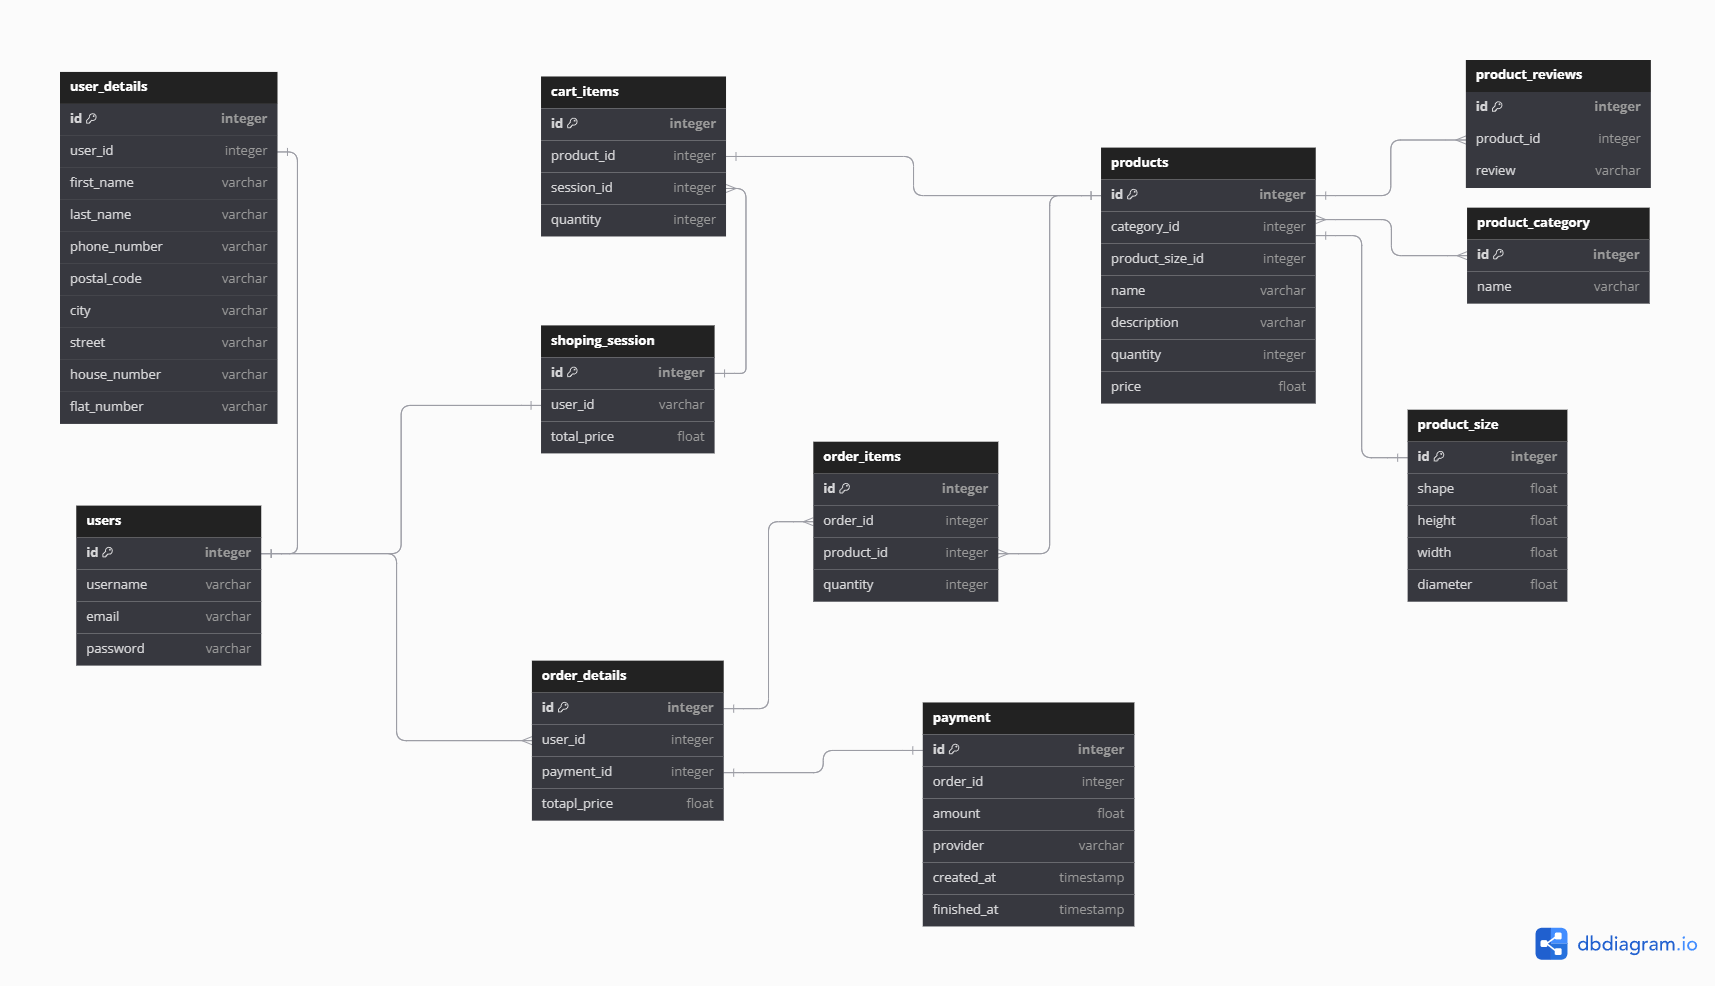
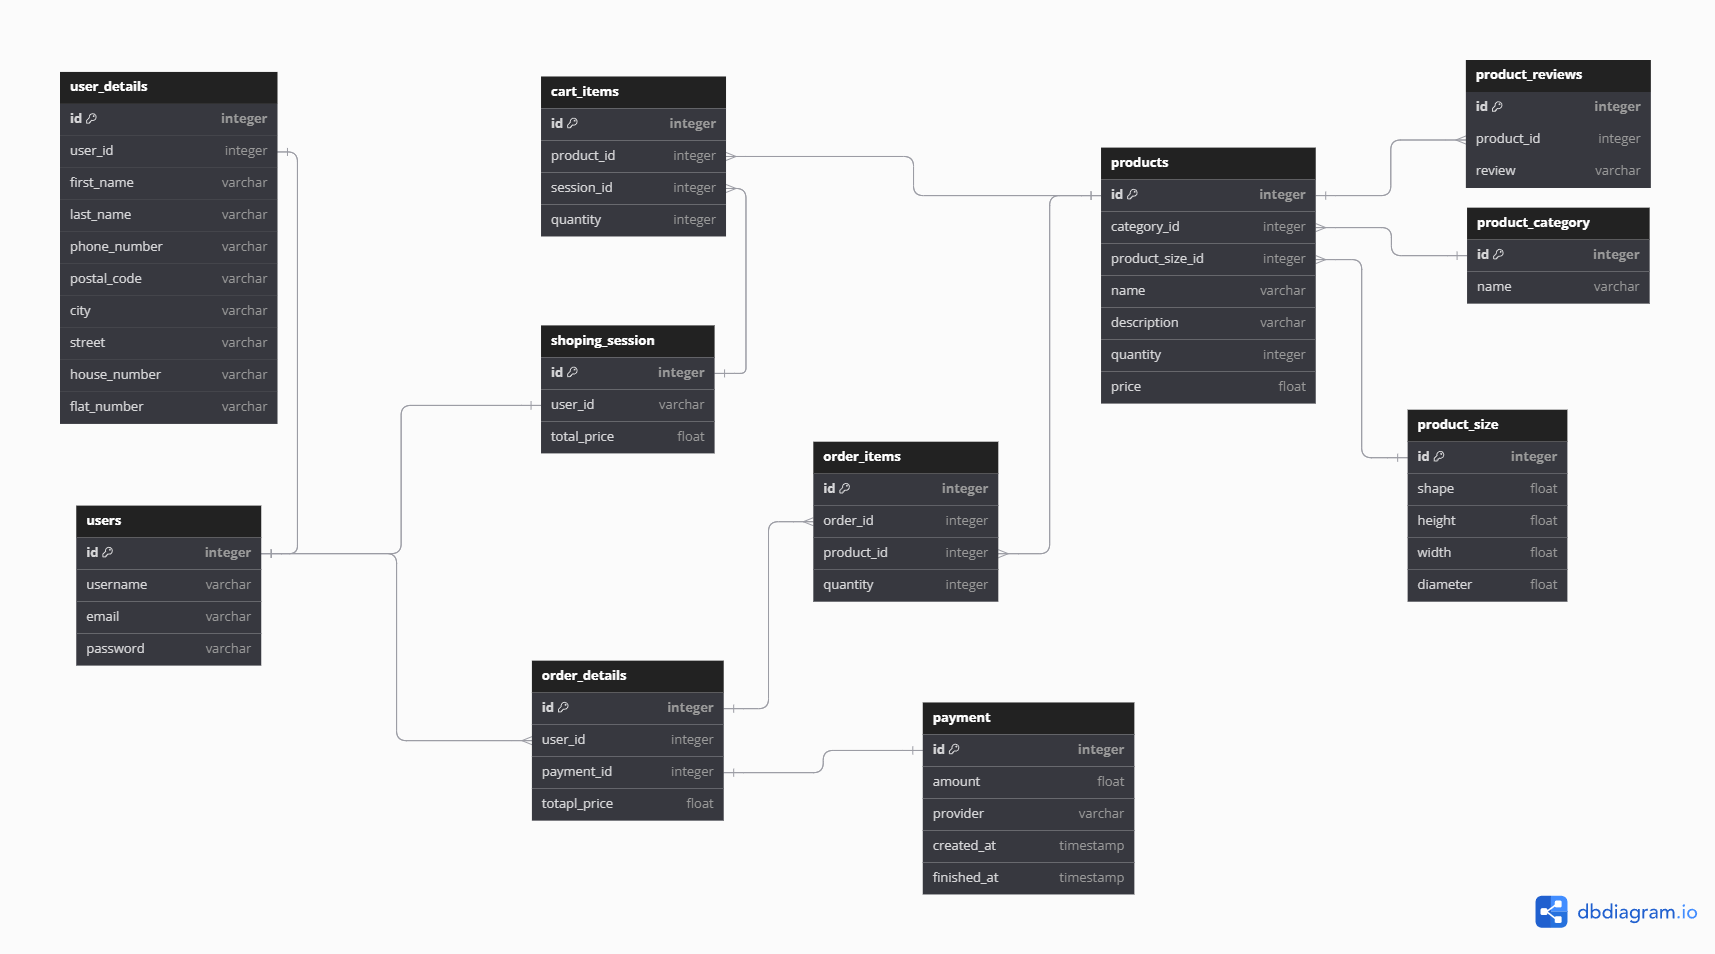
-

diff --git a/backend/frameMyMoments/src/main/java/com/frameMyMoments/frameMyMoments/repository/UserRepository.java b/backend/frameMyMoments/src/main/java/com/frameMyMoments/frameMyMoments/repository/UserRepository.java
@@ -1,4 +1,15 @@
 package com.frameMyMoments.frameMyMoments.repository;
 
-public class UserRepository {
+import com.frameMyMoments.frameMyMoments.model.dao.User;
+import org.springframework.data.jpa.repository.JpaRepository;
+import org.springframework.data.jpa.repository.Query;
+import org.springframework.stereotype.Repository;
+
+import java.util.Optional;
+
+@Repository
+public interface UserRepository extends JpaRepository<User, Long> {
+    User findUserByEmail(String email);
+    @Query("select u from User u where u.email=email")
+    Optional<User> findUserByEmailO(String email);
 }

diff --git a/backend/frameMyMoments/src/main/java/com/frameMyMoments/frameMyMoments/model/dao/Product.java b/backend/frameMyMoments/src/main/java/com/frameMyMoments/frameMyMoments/model/dao/Product.java
@@ -1,5 +1,6 @@
 package com.frameMyMoments.frameMyMoments.model.dao;
 
+import com.fasterxml.jackson.annotation.JsonProperty;
 import jakarta.persistence.*;
 import lombok.*;
 
@@ -12,7 +13,13 @@ public class Product {
     @Id
     @GeneratedValue(strategy = GenerationType.IDENTITY)
     private Long id;
+    @ManyToOne()
+    @JoinColumn()
+    @JsonProperty()
     private ProductCategory category;
+    @ManyToOne()
+    @JoinColumn()
+    @JsonProperty()
     private ProductSize size;
     private String name;
     private String description;

diff --git a/backend/frameMyMoments/src/main/java/com/frameMyMoments/frameMyMoments/model/dto/UserDetailDTO.java b/backend/frameMyMoments/src/main/java/com/frameMyMoments/frameMyMoments/model/dto/UserDetailDTO.java
@@ -1,4 +1,21 @@
 package com.frameMyMoments.frameMyMoments.model.dto;
 
+import lombok.AllArgsConstructor;
+import lombok.Data;
+import lombok.RequiredArgsConstructor;
+
+@Data
+@AllArgsConstructor
+@RequiredArgsConstructor
 public class UserDetailDTO {
+    private Long id;
+    private Long userId;
+    private String firstName;
+    private String lastName;
+    private String phoneNumber;
+    private String postalCode;
+    private String city;
+    private String street;
+    private String houseNumber;
+    private String flatNumber;
 }

diff --git a/backend/frameMyMoments/src/main/java/com/frameMyMoments/frameMyMoments/model/dao/OrderItem.java b/backend/frameMyMoments/src/main/java/com/frameMyMoments/frameMyMoments/model/dao/OrderItem.java
@@ -1,4 +1,5 @@
 package com.frameMyMoments.frameMyMoments.model.dao;
+import com.fasterxml.jackson.annotation.JsonProperty;
 import jakarta.persistence.*;
 import lombok.*;
 
@@ -11,7 +12,13 @@ public class OrderItem {
     @Id
     @GeneratedValue(strategy = GenerationType.IDENTITY)
     private Long id;
+    @ManyToOne()
+    @JoinColumn()
+    @JsonProperty()
     private OrderDetail order;
+    @ManyToOne()
+    @JoinColumn()
+    @JsonProperty()
     private Product product;
     private Long quantity;
 }

diff --git a/backend/frameMyMoments/src/main/java/com/frameMyMoments/frameMyMoments/model/dao/UserDetail.java b/backend/frameMyMoments/src/main/java/com/frameMyMoments/frameMyMoments/model/dao/UserDetail.java
@@ -1,5 +1,6 @@
 package com.frameMyMoments.frameMyMoments.model.dao;
 
+import com.fasterxml.jackson.annotation.JsonProperty;
 import jakarta.persistence.*;
 import lombok.AllArgsConstructor;
 import lombok.*;
@@ -13,6 +14,9 @@ public class UserDetail {
     @Id
     @GeneratedValue(strategy = GenerationType.IDENTITY)
     private Long id;
+    @OneToOne()
+    @JoinColumn()
+    @JsonProperty()
     private User user;
     private String firstName;
     private String lastName;

diff --git a/backend/frameMyMoments/src/main/java/com/frameMyMoments/frameMyMoments/model/dto/ProductsDTO.java b/backend/frameMyMoments/src/main/java/com/frameMyMoments/frameMyMoments/model/dto/ProductsDTO.java
@@ -1,4 +1,18 @@
 package com.frameMyMoments.frameMyMoments.model.dto;
 
+import lombok.AllArgsConstructor;
+import lombok.Data;
+import lombok.RequiredArgsConstructor;
+
+@Data
+@AllArgsConstructor
+@RequiredArgsConstructor
 public class ProductsDTO {
+    private Long id;
+    private Long categoryId;
+    private Long sizeId;
+    private String name;
+    private String description;
+    private Long quantity;
+    private float price;
 }

diff --git a/backend/frameMyMoments/src/main/java/com/frameMyMoments/frameMyMoments/model/dto/PaymentDTO.java b/backend/frameMyMoments/src/main/java/com/frameMyMoments/frameMyMoments/model/dto/PaymentDTO.java
@@ -1,4 +1,18 @@
 package com.frameMyMoments.frameMyMoments.model.dto;
 
+import java.time.LocalDateTime;
+
+import lombok.AllArgsConstructor;
+import lombok.Data;
+import lombok.RequiredArgsConstructor;
+
+@Data
+@AllArgsConstructor
+@RequiredArgsConstructor
 public class PaymentDTO {
+    private Long id;
+    private float amount;
+    private String provider;
+    private LocalDateTime created;
+    private LocalDateTime finished;
 }

diff --git a/backend/frameMyMoments/src/main/java/com/frameMyMoments/frameMyMoments/model/dao/ProductReview.java b/backend/frameMyMoments/src/main/java/com/frameMyMoments/frameMyMoments/model/dao/ProductReview.java
@@ -1,4 +1,5 @@
 package com.frameMyMoments.frameMyMoments.model.dao;
+import com.fasterxml.jackson.annotation.JsonProperty;
 import jakarta.persistence.*;
 import lombok.*;
 
@@ -12,6 +13,9 @@ public class ProductReview {
     @Id
     @GeneratedValue(strategy = GenerationType.IDENTITY)
     private Long id;
+    @ManyToOne()
+    @JoinColumn()
+    @JsonProperty()
     private Product product;
     private String review;
 }

diff --git a/backend/frameMyMoments/src/main/java/com/frameMyMoments/frameMyMoments/model/dao/ShoppingSession.java b/backend/frameMyMoments/src/main/java/com/frameMyMoments/frameMyMoments/model/dao/ShoppingSession.java
@@ -1,5 +1,6 @@
 package com.frameMyMoments.frameMyMoments.model.dao;
 
+import com.fasterxml.jackson.annotation.JsonProperty;
 import jakarta.persistence.*;
 import lombok.*;
 
@@ -12,6 +13,9 @@ public class ShoppingSession {
     @Id
     @GeneratedValue(strategy = GenerationType.IDENTITY)
     private Long id;
+    @OneToOne()
+    @JoinColumn()
+    @JsonProperty()
     private User user;
     private float totalPrice;
 }

diff --git a/backend/frameMyMoments/src/main/java/com/frameMyMoments/frameMyMoments/model/dto/ProductSizeDTO.java b/backend/frameMyMoments/src/main/java/com/frameMyMoments/frameMyMoments/model/dto/ProductSizeDTO.java
@@ -1,4 +1,16 @@
 package com.frameMyMoments.frameMyMoments.model.dto;
 
+import lombok.AllArgsConstructor;
+import lombok.Data;
+import lombok.RequiredArgsConstructor;
+
+@Data
+@AllArgsConstructor
+@RequiredArgsConstructor
 public class ProductSizeDTO {
+    private Long id;
+    private float shape;
+    private float height;
+    private float width;
+    private float diameter;
 }

diff --git a/backend/frameMyMoments/src/main/java/com/frameMyMoments/frameMyMoments/model/dto/OrderDetailsDTO.java b/backend/frameMyMoments/src/main/java/com/frameMyMoments/frameMyMoments/model/dto/OrderDetailsDTO.java
@@ -1,4 +1,15 @@
 package com.frameMyMoments.frameMyMoments.model.dto;
 
+import lombok.AllArgsConstructor;
+import lombok.Data;
+import lombok.RequiredArgsConstructor;
+
+@Data
+@AllArgsConstructor
+@RequiredArgsConstructor
 public class OrderDetailsDTO {
+    private Long id;
+    private Long userId;
+    private Long paymentId;
+    private float totalPrice;
 }

diff --git a/backend/frameMyMoments/src/main/java/com/frameMyMoments/frameMyMoments/model/dto/CartItemDTO.java b/backend/frameMyMoments/src/main/java/com/frameMyMoments/frameMyMoments/model/dto/CartItemDTO.java
@@ -1,4 +1,15 @@
 package com.frameMyMoments.frameMyMoments.model.dto;
 
+import lombok.AllArgsConstructor;
+import lombok.Data;
+import lombok.RequiredArgsConstructor;
+
+@Data
+@AllArgsConstructor
+@RequiredArgsConstructor
 public class CartItemDTO {
+    private Long id;
+    private Long productId;
+    private Long sessionId;
+    private Long quantity;
 }
